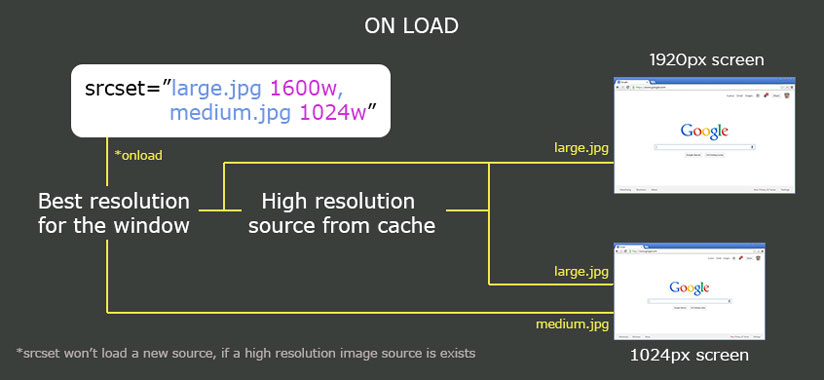
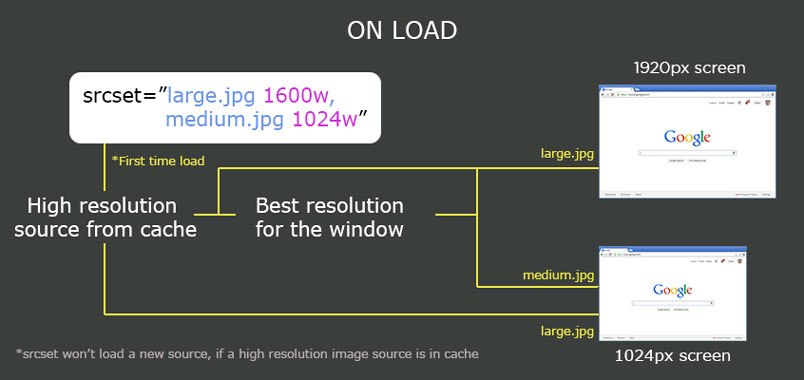
text change in all - existing source to cache

diff --git a/index.html b/index.html
@@ -167,13 +167,13 @@
 
 					<section>
 						<h1>srcset and sizes</h1>
-						<h3>Displays the best source based on <br/> the resolution and existing sources</h3>
-						<p>Resolution based | Existing sources based | Device-pixel-ratio based</p>
+						<h3>Displays the best source based on <br/> the cache and the resolution</h3>
+						<p>Cache based | Resolution based | Device-pixel-ratio based</p>
 					</section>
 
 					<section>
 						<h2>srcset syntax</h2>
-						<p>Browser won't load a new low-resolution image, if high resolution image is already exists</p>
+						<p>Browser won't load a new low-resolution image, if high resolution image is already in cache</p>
 						<div class="editor">
 <pre class='brush: html'><img srcset="large.jpg 1600w, medium.jpg 1024w" src="large.jpg" alt="car" /></pre>
 </div>
@@ -356,10 +356,10 @@
 						<h2>So...</h2>
 						<ul>
 							<li class="fragment">&lt;picture&gt; is used for art direction and different image types</li>
-							<li class="fragment">srcset is for best source based on cache and resolution</li>
-							<li class="fragment">sizes is for getting the image based on its own resolution than viewport</li>
+							<li class="fragment">srcset to get the best source based on cache and resolution</li>
+							<li class="fragment">sizes to get the image, based on its own resolution than viewport</li>
 							<li class="fragment">image-set() is for retina sprite images</li>
-							<li class="fragment">webp for the image, which is larger than 300kb, <a href="https://webp-converter.com/" target="_blank">Online convertor</a>.</li>
+							<li class="fragment">webp for the larger file size image (more than 300kb), <a href="https://webp-converter.com/" target="_blank">Online convertor</a>.</li>
 						</ul>
 					</section>
 
